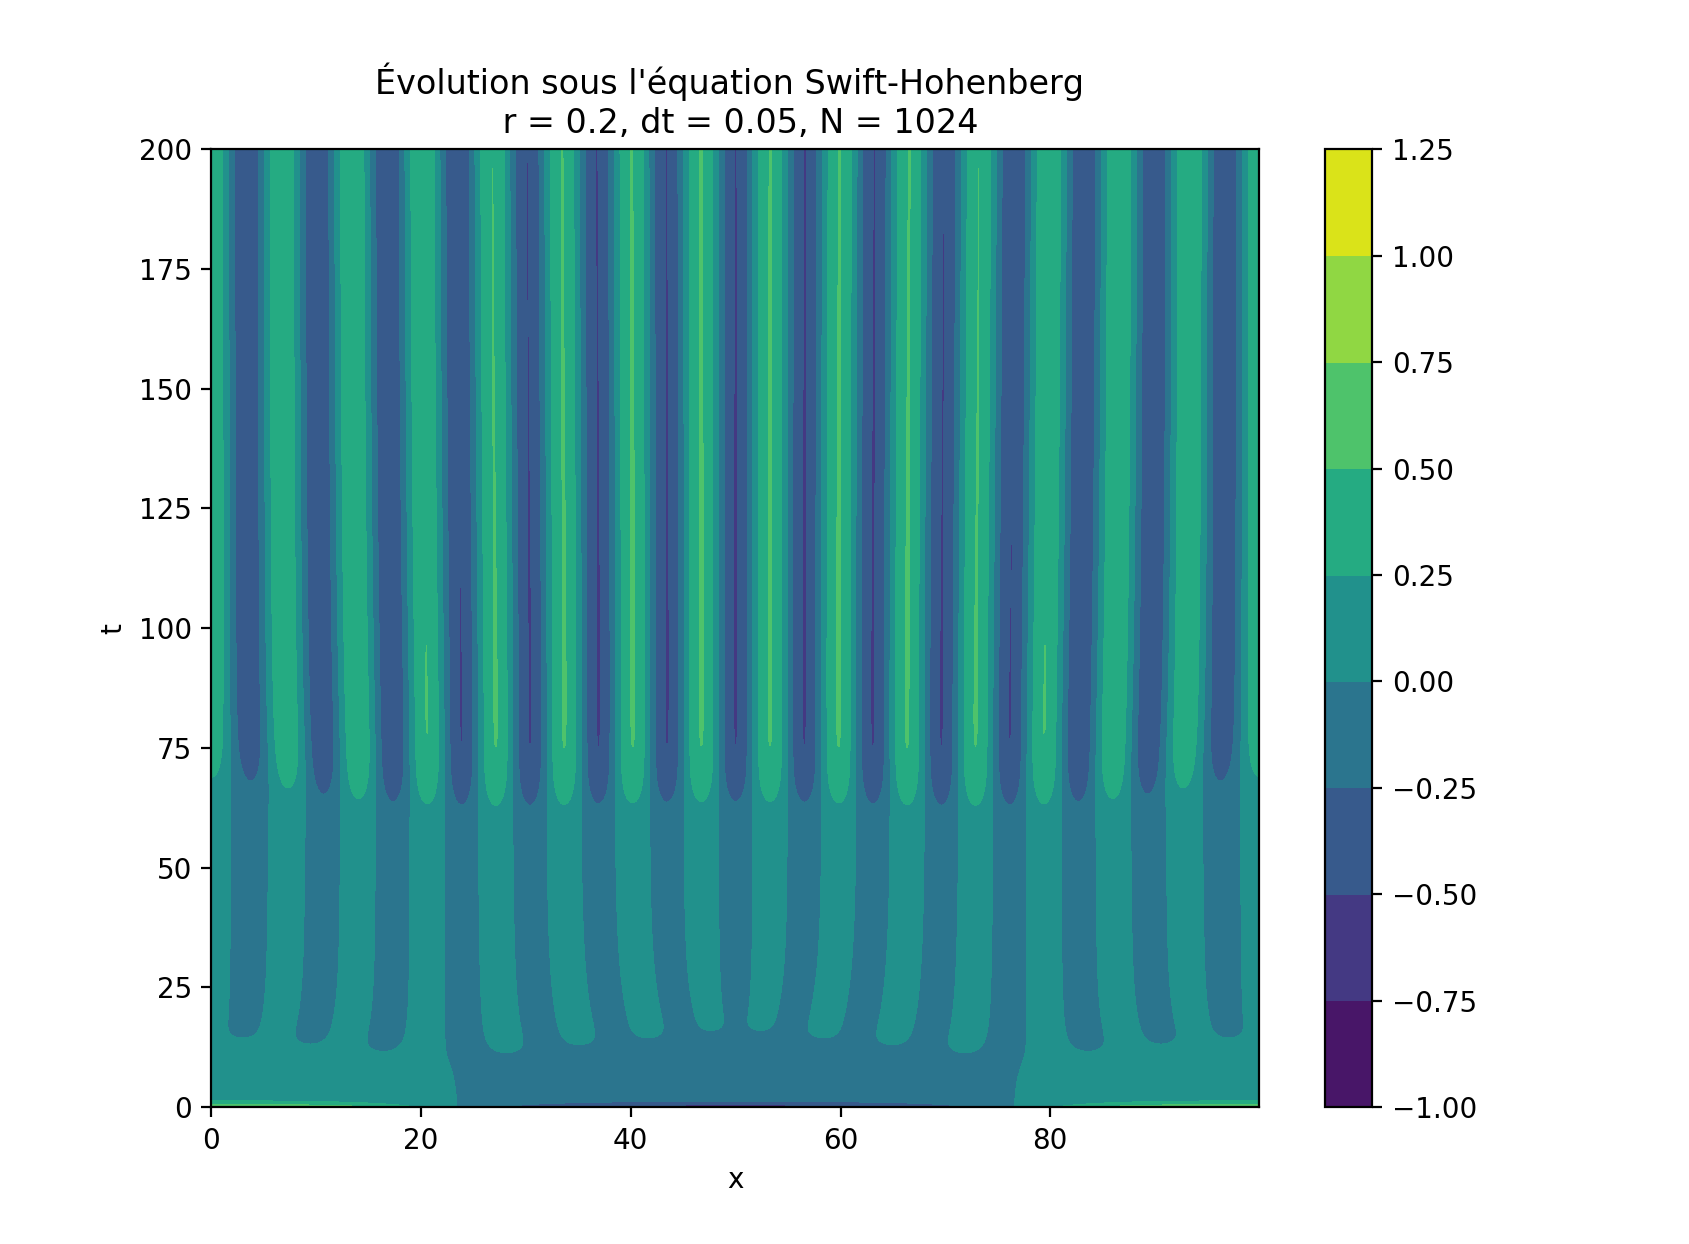
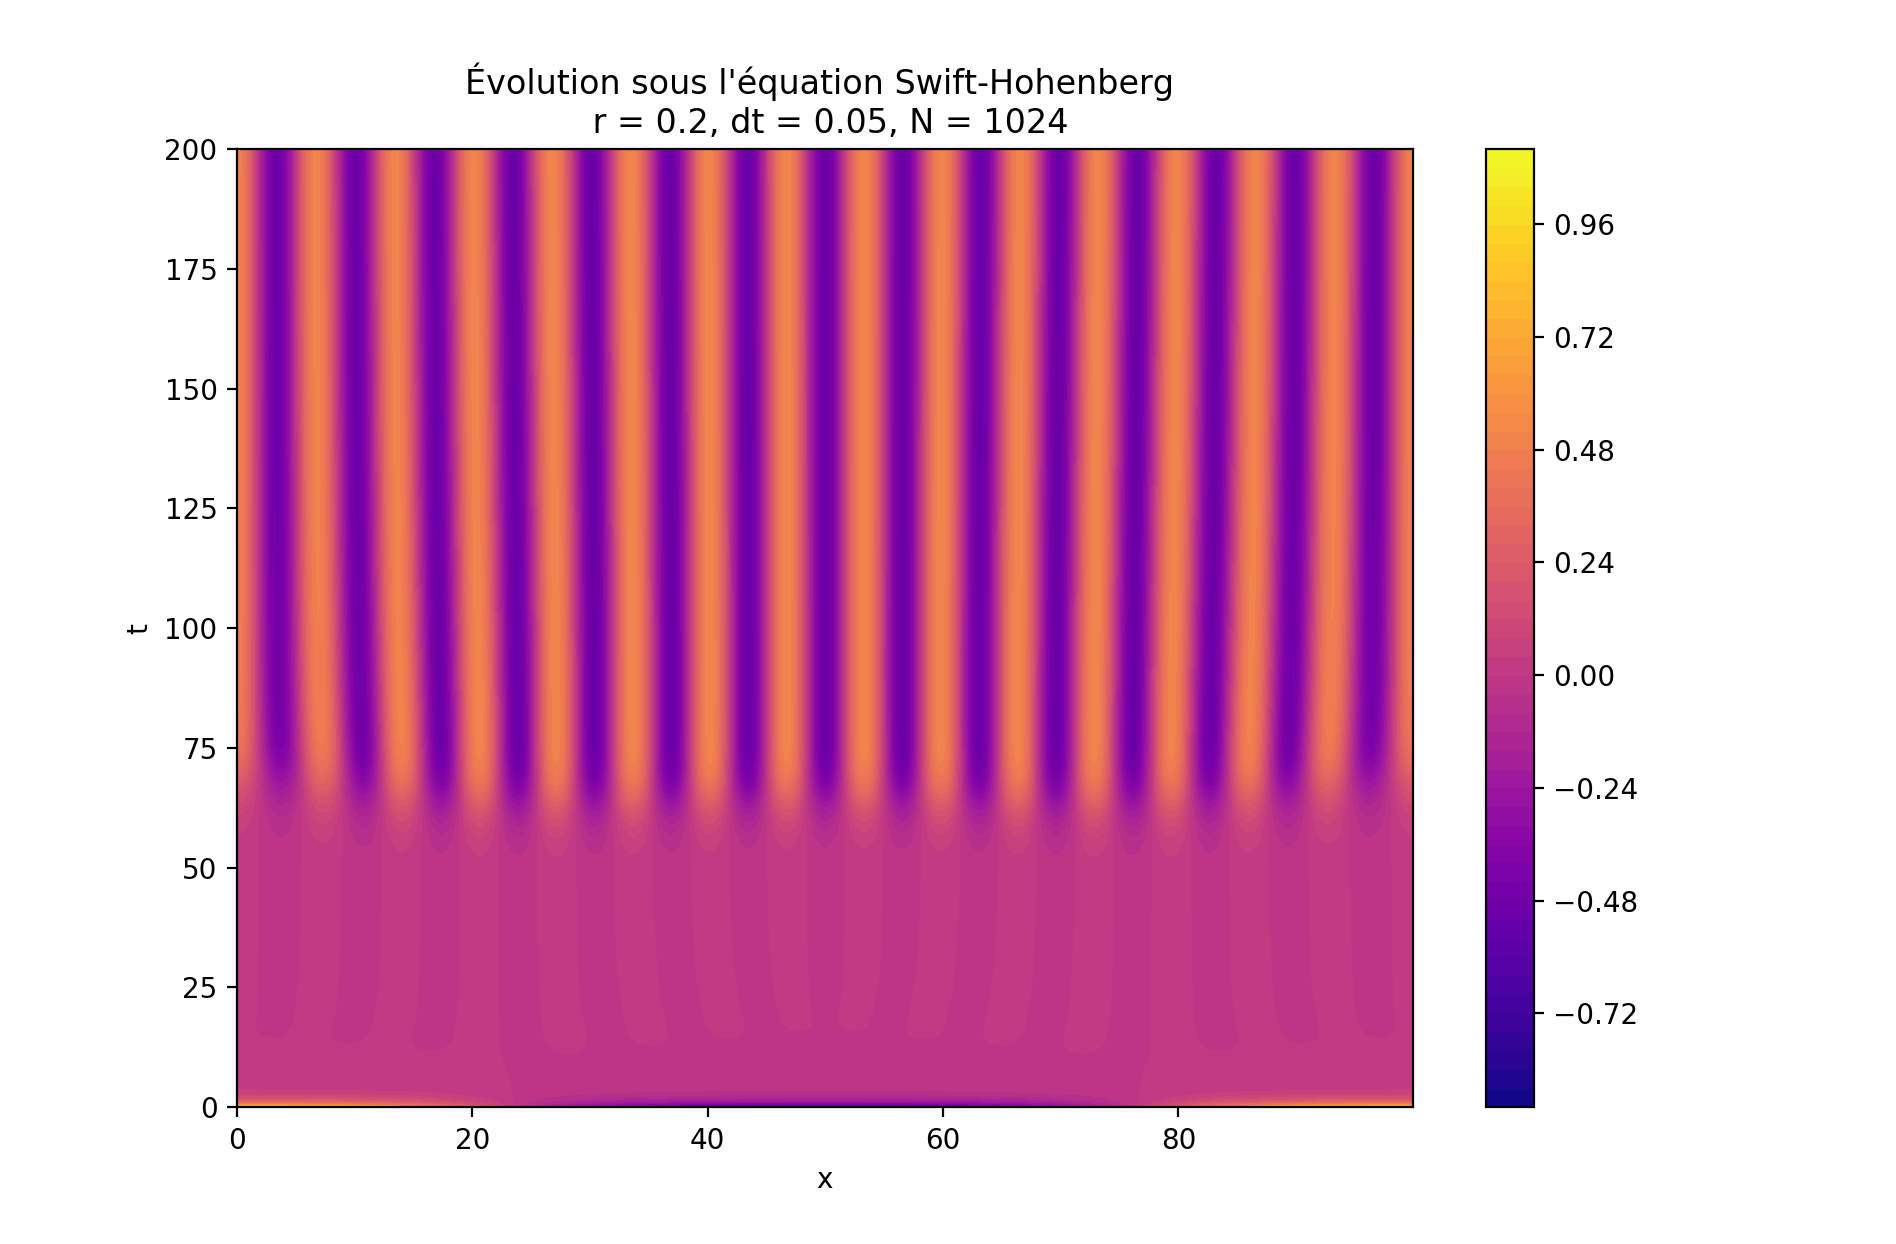
ajout précision des niveaux

diff --git a/pattern.py b/pattern.py
@@ -1,6 +1,7 @@
 import numpy as np
 from numpy import cos, pi, exp
 import matplotlib.pyplot as plt
+from matplotlib.colors import Colormap
 import scipy.signal as scsg
 
 
@@ -95,7 +96,7 @@ plt.clf()
 
 t_range = np.arange(0,t_max, dt)
 [xx,tt]=np.meshgrid(x_range,t_range)
-plt.contourf(xx,tt, U.T)
+plt.contourf(xx,tt, U.T, cmap = "plama", levels = 50) # cmap = "jet" dans les consignes
 plt.xlabel("x")
 plt.ylabel("t")
 plt.title("Évolution sous l'équation Swift-Hohenberg \n r = {}, dt = {}, N = {}".format(r,dt,N))
